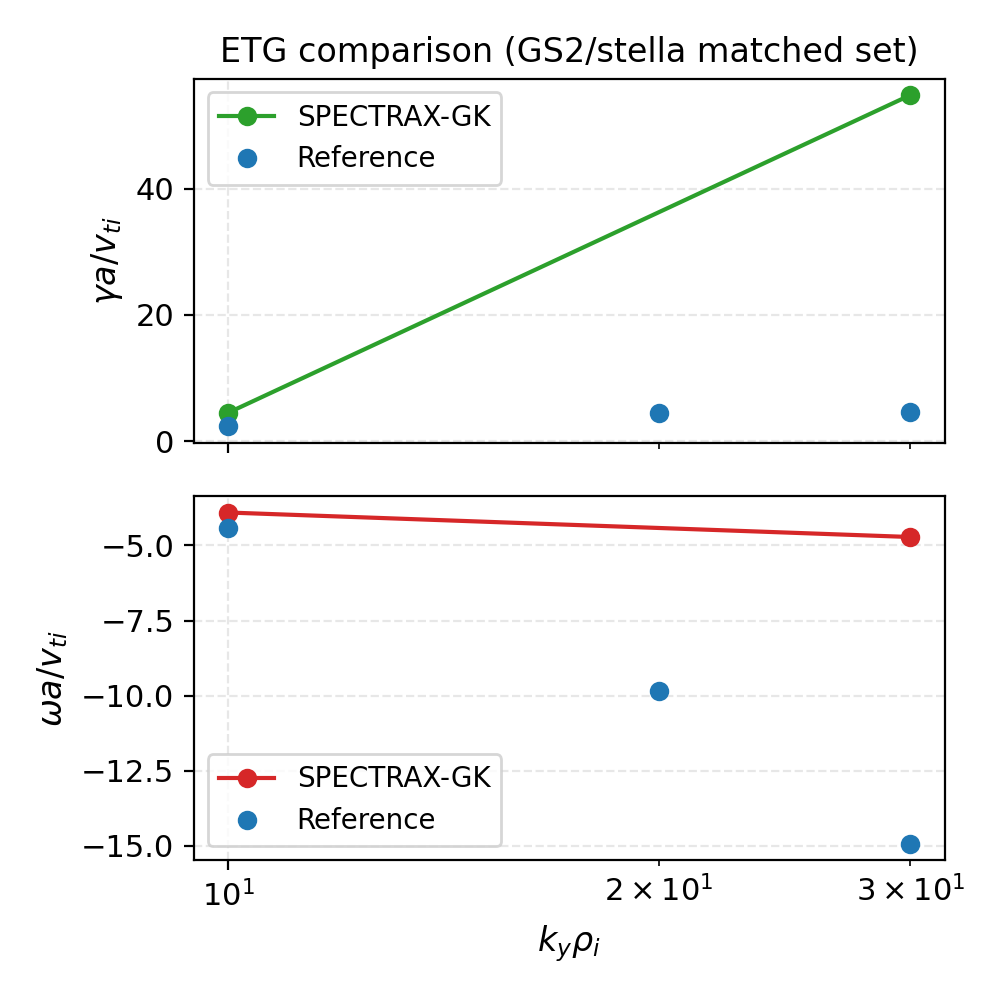
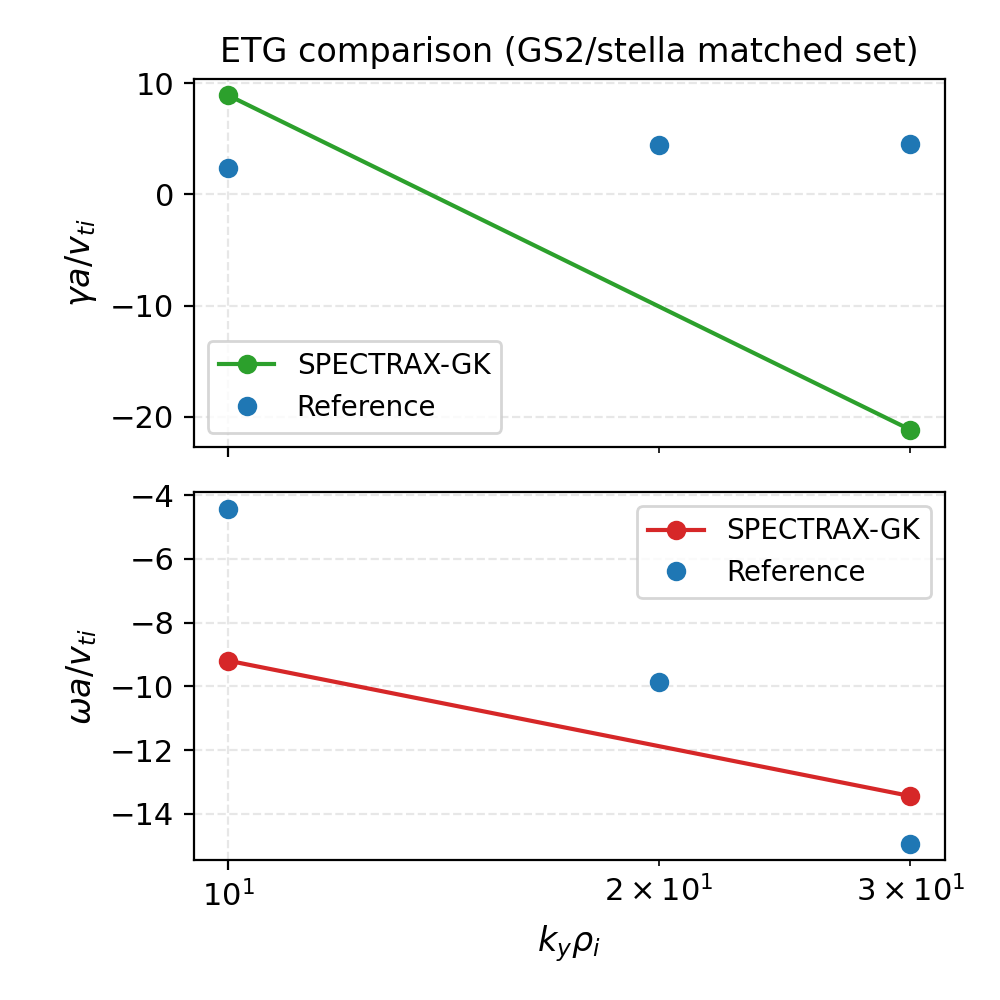
Tune ETG resolution policy for high-ky scans

diff --git a/tools/make_tables.py b/tools/make_tables.py
@@ -209,6 +209,7 @@ def _scan_linear_verbose(
     progress: bool,
     resolution_policy: Callable[[float], tuple[int, int]] | None = None,
     krylov_policy: Callable[[float], KrylovConfig] | None = None,
+    per_ky_hook: Callable[[float, int, int], dict] | None = None,
     stiff_spot_check: bool = False,
     stiff_spot_check_topk: int = 0,
     stiff_spot_check_min_ky: float = 0.0,
@@ -253,6 +254,8 @@ def _scan_linear_verbose(
             use_tqdm=progress,
         )
         extra = dict(base_extra)
+        if per_ky_hook is not None:
+            extra.update(per_ky_hook(float(ky), int(Nl_i), int(Nm_i)))
         krylov_cfg_use = krylov_policy(float(ky)) if krylov_policy is not None else krylov_cfg
         result = run_linear_fn(
             ky_target=float(ky),
@@ -752,12 +755,32 @@ def _etg_time_controls(
     return dt, steps, tmin, tmax
 
 
+def _etg_window_controls(ky: np.ndarray, t_total: float) -> tuple[np.ndarray, np.ndarray]:
+    """Late-window bias for high-ky ETG fits."""
+
+    ky = np.asarray(ky, dtype=float)
+    tmin = np.empty_like(ky, dtype=float)
+    tmax = np.empty_like(ky, dtype=float)
+    low = ky < 15.0
+    mid = (ky >= 15.0) & (ky < 25.0)
+    high = ky >= 25.0
+    tmin[low] = 0.35 * t_total
+    tmax[low] = 0.7 * t_total
+    tmin[mid] = 0.5 * t_total
+    tmax[mid] = 0.85 * t_total
+    tmin[high] = 0.6 * t_total
+    tmax[high] = 0.9 * t_total
+    return tmin, tmax
+
+
 def _etg_resolution_policy(ky: float) -> tuple[int, int]:
     """Per-ky Hermite/Laguerre resolution for ETG scans."""
 
     if ky < 10.0:
         return 48, 16
-    return 48, 16
+    if ky < 20.0:
+        return 64, 24
+    return 72, 32
 
 
 def _etg_krylov_policy(ky: float) -> KrylovConfig:
@@ -837,6 +860,8 @@ def _run_etg_tables(*, outdir: Path, verbose: bool, progress: bool) -> None:
         krylov_cfg=ETG_KRYLOV,
         window_kw=WINDOWS["etg"],
         auto_window=True,
+        tmin=None,
+        tmax=None,
         run_kwargs={
             "mode_method": "z_index",
             "fit_signal": "phi",

diff --git a/tools/make_figures.py b/tools/make_figures.py
@@ -127,7 +127,27 @@ def _etg_resolution_policy(ky: float) -> tuple[int, int]:
 
     if ky < 10.0:
         return 48, 16
-    return 48, 16
+    if ky < 20.0:
+        return 64, 24
+    return 72, 32
+
+
+def _etg_window_controls(ky: np.ndarray, t_total: float) -> tuple[np.ndarray, np.ndarray]:
+    """Late-window bias for high-ky ETG fits."""
+
+    ky = np.asarray(ky, dtype=float)
+    tmin = np.empty_like(ky, dtype=float)
+    tmax = np.empty_like(ky, dtype=float)
+    low = ky < 15.0
+    mid = (ky >= 15.0) & (ky < 25.0)
+    high = ky >= 25.0
+    tmin[low] = 0.35 * t_total
+    tmax[low] = 0.7 * t_total
+    tmin[mid] = 0.5 * t_total
+    tmax[mid] = 0.85 * t_total
+    tmin[high] = 0.6 * t_total
+    tmax[high] = 0.9 * t_total
+    return tmin, tmax
 
 
 def _etg_krylov_policy(ky: float) -> KrylovConfig:
@@ -714,6 +734,7 @@ def _run_etg_figures(*, outdir: Path, verbose: bool, progress: bool) -> None:
         sample_stride=10,
     )
     etg_steps = int(round(etg_time.t_max / etg_time.dt))
+    tmin_etg, tmax_etg = _etg_window_controls(etg_ky, etg_time.t_max)
     etg_scan, _etg_mode, _etg_grid, _ = _scan_and_mode(
         run_etg_scan,
         run_etg_linear,
